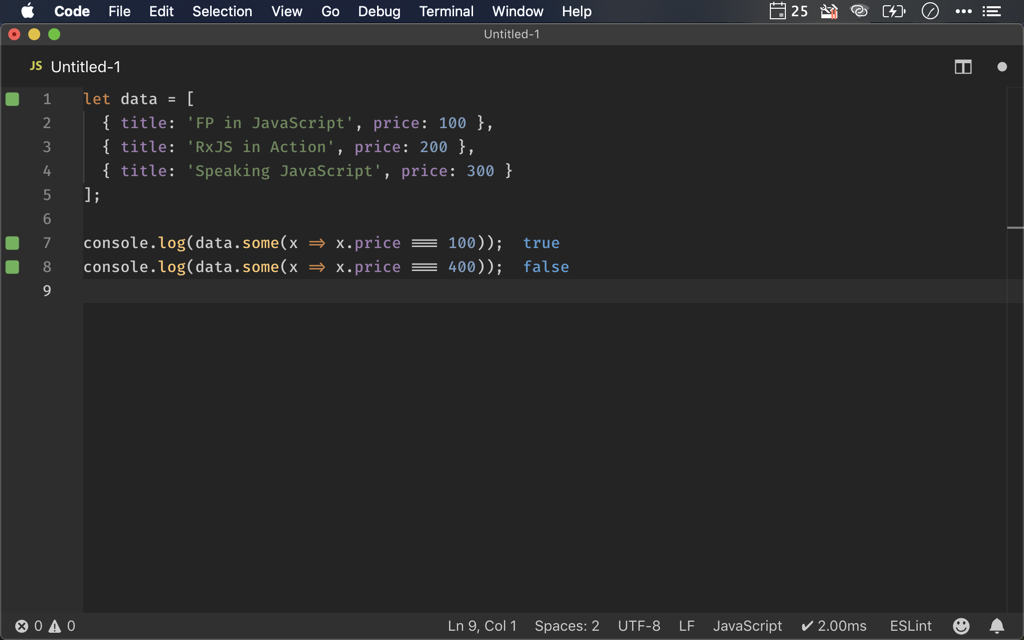
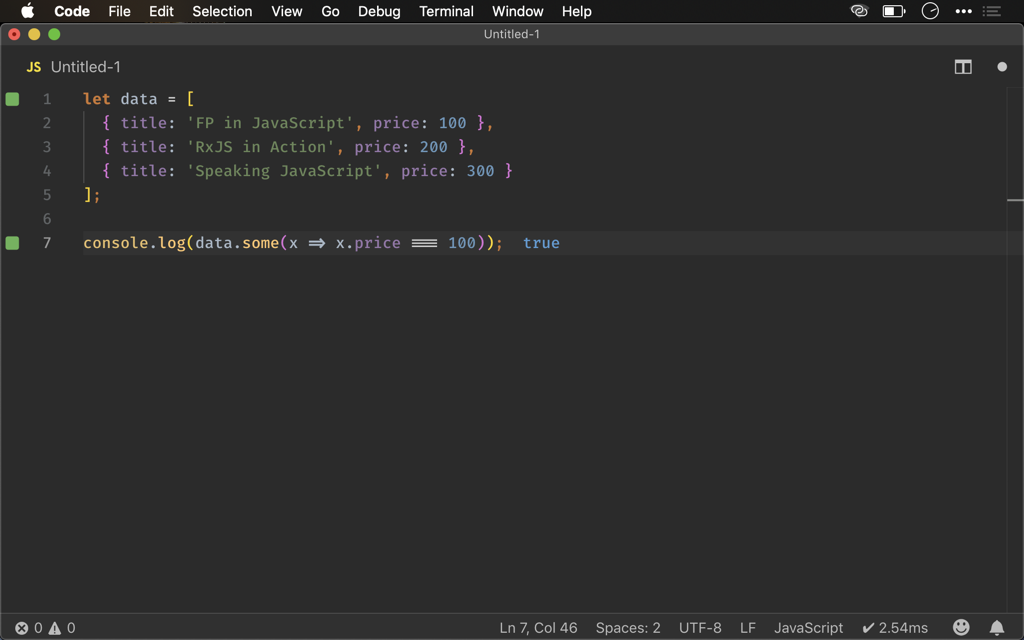
Ramda 之 any()

diff --git a/source/_posts/ramda/any.md b/source/_posts/ramda/any.md
@@ -4,7 +4,7 @@ tags:
   - Ramda/equals
   - Ramda/any
 feature: images/feature/ramda.png
-date: 2019-04-10 14:23:43
+date: 2019-05-15 14:23:43
 ---
 實務上我們常需判斷某一個值是否存在於 Array 內，若存在則傳回 `true`，若不存在則傳回 `false`。
 
@@ -25,15 +25,18 @@ let data = [
   { title: 'Speaking JavaScript', price: 300 }
 ];
 
-let any = cb => arr => {
+// any :: (a -> Boolean) -> [a] -> Boolean
+let any = pred => arr => {
   for (let elem of arr) {
-    if (cb(elem)) return true;
+    if (pred(elem)) return true;
   }
   return false;
 };
 
-console.log(any(x => x.price === 100)(data));
-console.log(any(x => x.price === 400)(data));
+// fn :: [a] -> Boolean
+let fn = any(x => x.price === 100);
+
+console.log(fn(data));
 ```
 
 建立 `any()`，imperative 會使用 `for` loop 搭配 `if` 判斷，若找到就直接回傳  `true` 結束，若都找不到則回傳 `false`。
@@ -50,7 +53,6 @@ let data = [
 ];
 
 console.log(data.some(x => x.price === 100));
-console.log(data.some(x => x.price === 400));
 ```
 
 `Array.prototype` 有內建 `some()`，直接傳入 arrow function 即可。
@@ -70,8 +72,10 @@ let data = [
   { title: 'Speaking JavaScript', price: 300 }
 ];
 
-console.log(any(propEq('price', 100))(data));
-console.log(any(propEq('price', 400))(data));
+// fn :: [a] -> Boolean
+let fn = any(propEq('price', 100));
+
+console.log(fn(data));
 ```
 
 事實上 Ramda 已經內建 `any()` ，且 callback 也可改用 `propEq()` 產生，語意更佳。
@@ -98,5 +102,3 @@ console.log(any(propEq('price', 400))(data));
 
 [Ramda](https://ramdajs.com), [any()](https://ramdajs.com/docs/#any)
 [Ramda](https://ramdajs.com), [propEq()](https://ramdajs.com/docs/#propEq)
-
-
